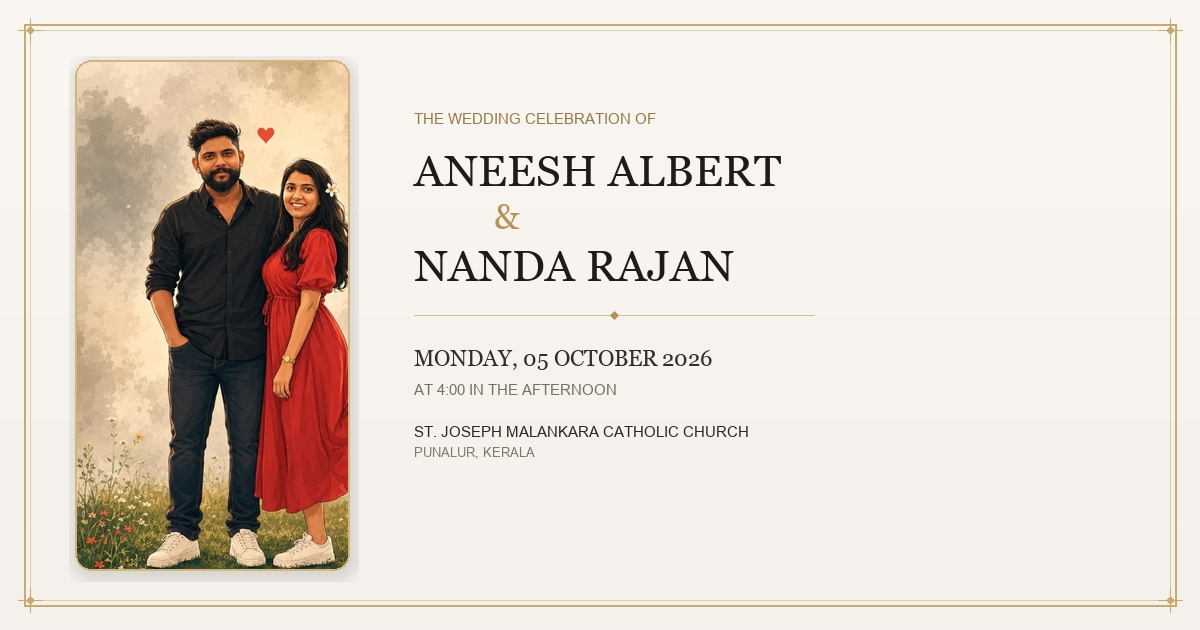
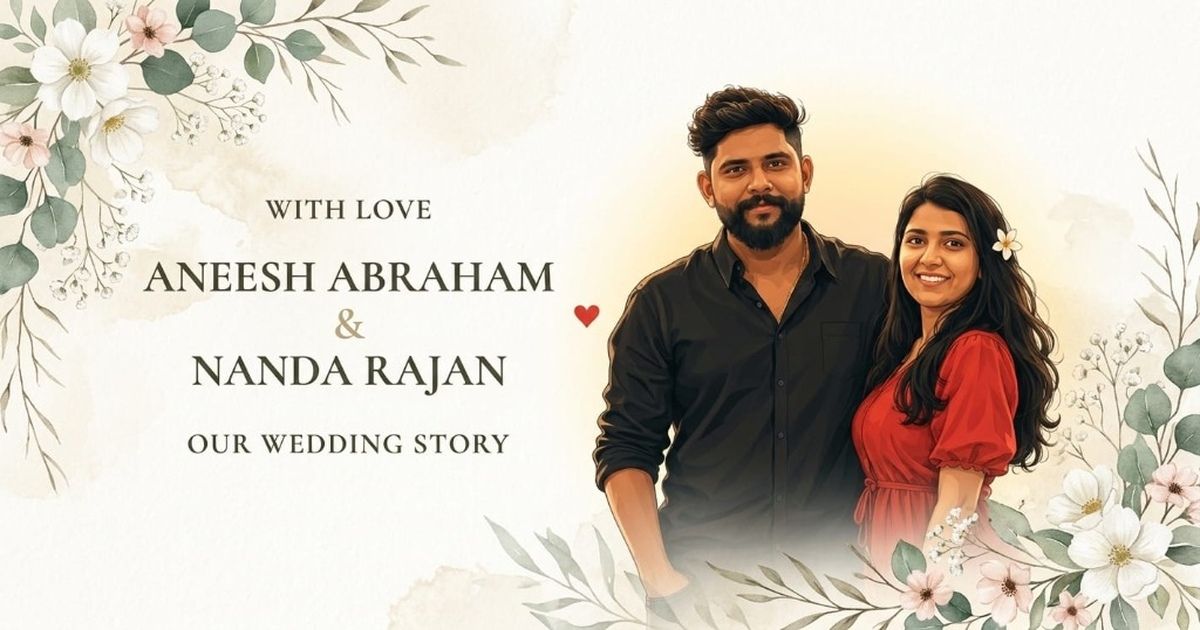
Update OpenGraph image and social metadata for Aneesh & Nanda

diff --git a/index.html b/index.html
@@ -5,26 +5,29 @@
   <meta name="viewport" content="width=device-width, initial-scale=1.0, maximum-scale=5.0">
   <meta http-equiv="X-UA-Compatible" content="IE=edge">
   
-  <title>Aneesh Albert &amp; Nanda Rajan | Wedding Invitation</title>
-  <meta name="description" content="Join us as we begin our beautiful new chapter together on 5 October 2026 at St. Joseph Malankara Catholic Church, Punalur.">
-  <meta name="author" content="Aneesh Albert &amp; Nanda Rajan">
+  <title>Aneesh Abraham &amp; Nanda Rajan | Our Wedding Story</title>
+  <meta name="description" content="With grateful hearts and the blessings of our families, we invite you to celebrate the beginning of our forever on Monday, 5 October 2026 at St. Joseph Malankara Catholic Church, Punalur.">
+  <meta name="author" content="Aneesh Abraham &amp; Nanda Rajan">
   <meta name="theme-color" content="#FAF7F2">
 
   <!-- Open Graph / WhatsApp Sharing Metadata -->
   <meta property="og:type" content="website">
-  <meta property="og:title" content="Aneesh Albert &amp; Nanda Rajan | Wedding Invitation">
-  <meta property="og:description" content="Join us as we begin our beautiful new chapter together on 5 October 2026.">
-  <meta property="og:image" content="/images/og-image.jpg">
+  <meta property="og:url" content="https://nandhuts.github.io/aneeshwedsnanda/">
+  <meta property="og:title" content="Aneesh Abraham &amp; Nanda Rajan | Our Wedding Story">
+  <meta property="og:description" content="With grateful hearts and the blessings of our families, we invite you to celebrate the beginning of our forever on Monday, 5 October 2026 at St. Joseph Malankara Catholic Church, Punalur.">
+  <meta property="og:image" content="https://nandhuts.github.io/aneeshwedsnanda/images/og-image.jpg">
+  <meta property="og:image:secure_url" content="https://nandhuts.github.io/aneeshwedsnanda/images/og-image.jpg">
   <meta property="og:image:type" content="image/jpeg">
   <meta property="og:image:width" content="1200">
   <meta property="og:image:height" content="630">
+  <meta property="og:image:alt" content="Aneesh Abraham &amp; Nanda Rajan - Our Wedding Story">
   <meta property="og:site_name" content="Aneesh &amp; Nanda Wedding">
 
   <!-- Twitter Meta Tags -->
   <meta name="twitter:card" content="summary_large_image">
-  <meta name="twitter:title" content="Aneesh Albert &amp; Nanda Rajan | Wedding Invitation">
-  <meta name="twitter:description" content="Join us as we begin our beautiful new chapter together on 5 October 2026.">
-  <meta name="twitter:image" content="/images/og-image.jpg">
+  <meta name="twitter:title" content="Aneesh Abraham &amp; Nanda Rajan | Our Wedding Story">
+  <meta name="twitter:description" content="With grateful hearts and the blessings of our families, we invite you to celebrate the beginning of our forever on Monday, 5 October 2026 at St. Joseph Malankara Catholic Church, Punalur.">
+  <meta name="twitter:image" content="https://nandhuts.github.io/aneeshwedsnanda/images/og-image.jpg">
 
   <!-- Favicon -->
   <link rel="icon" type="image/svg+xml" href="./favicon.svg">

diff --git a/src/config/weddingConfig.js b/src/config/weddingConfig.js
@@ -136,10 +136,11 @@ export const weddingConfig = {
 
   // Social Sharing & Open Graph Metadata
   meta: {
-    siteTitle: "Aneesh Albert & Nanda Rajan | Wedding Invitation",
-    siteDescription: "Join us as we begin our beautiful new chapter together on 5 October 2026 at St. Joseph Malankara Catholic Church, Punalur.",
-    canonicalUrl: "https://aneesh-weds-nanda.wedding",
-    ogImage: "/images/og-image.jpg",
+    siteTitle: "Aneesh Abraham & Nanda Rajan | Our Wedding Story",
+    siteDescription: "With grateful hearts and the blessings of our families, we invite you to celebrate the beginning of our forever on Monday, 5 October 2026 at St. Joseph Malankara Catholic Church, Punalur.",
+    canonicalUrl: "https://nandhuts.github.io/aneeshwedsnanda/",
+    ogImage: "https://nandhuts.github.io/aneeshwedsnanda/images/og-image.jpg",
+    ogImageFallback: "./images/og-image.jpg",
     ogImageType: "image/jpeg",
     ogImageWidth: "1200",
     ogImageHeight: "630",
